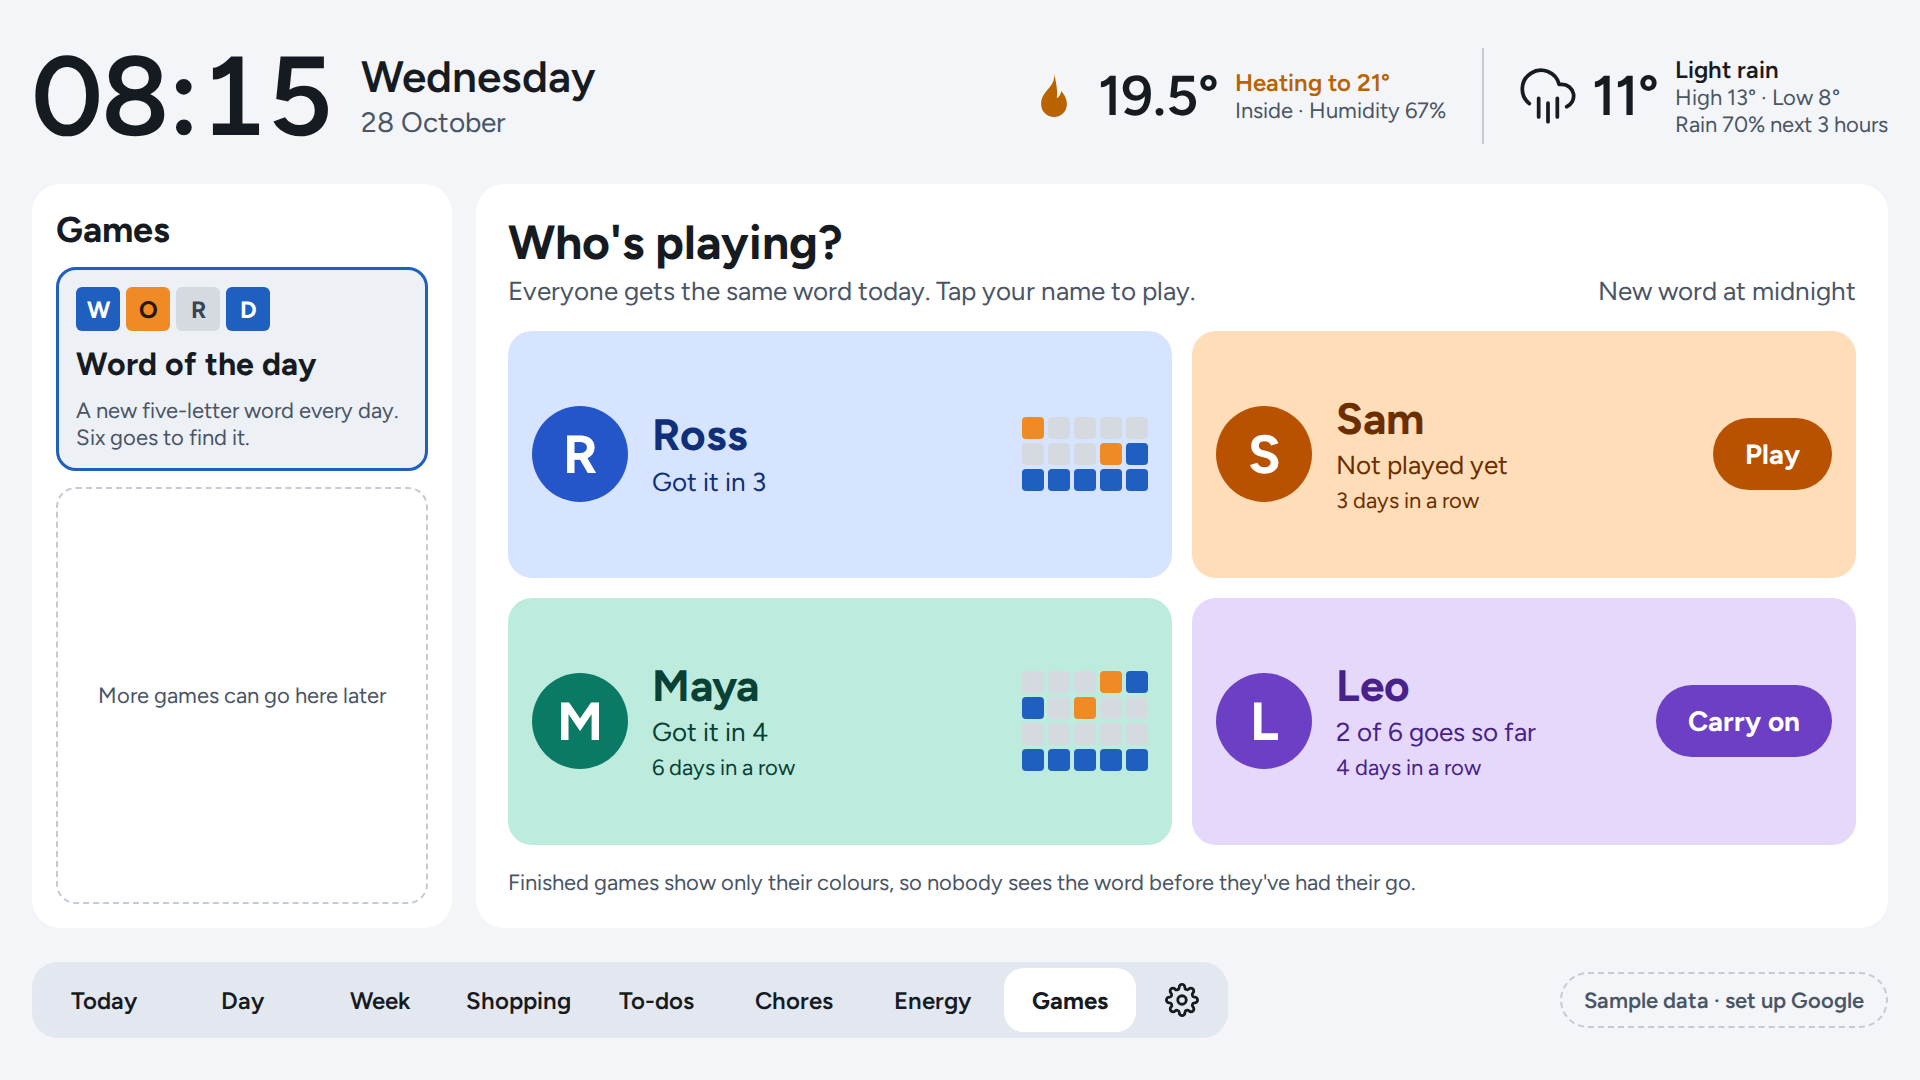
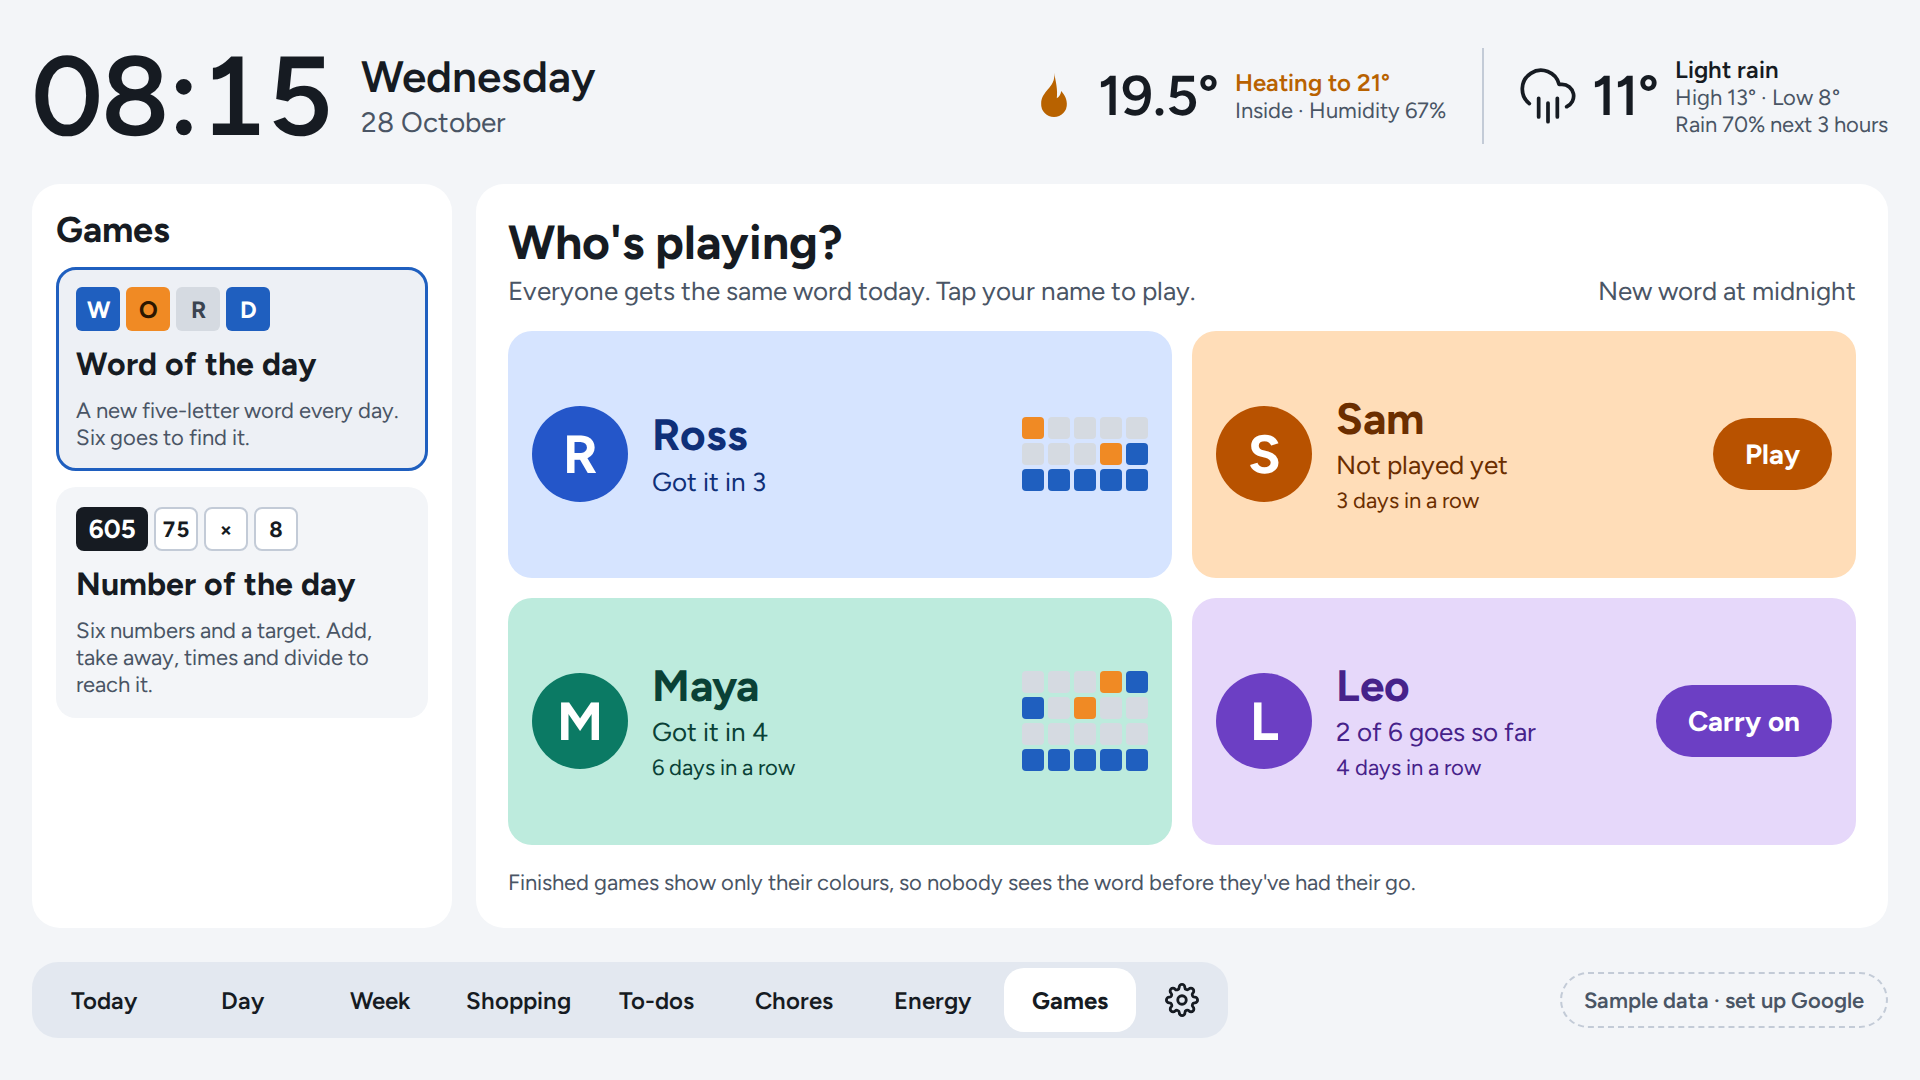
Screenshots of Number of the day, and the Games list with both games, AB#91
Made in the CI Playwright image with npm run test:screenshots. The
README's images are copies of them.

Claude-Session: https://claude.ai/code/session_01BuxoMgGrpTyDganpCKVtnJ

Changed region(s): [[0.0312, 0.5806, 0.1875, 0.6722], [0.0312, 0.4583, 0.1875, 0.55]]

diff --git a/README.md b/README.md
@@ -52,7 +52,7 @@ FamilyHub is a personal project, built by one family for its own kitchen. Buildi
 
 | Games | Word of the day |
 |---|---|
-| ![The Games Section: Word of the day, and a card for each Member: Ross and Maya have solved it, shown only as coloured squares, Sam hasn't played and Leo is two goes in](docs/images/games-view.png) | ![Leo's word of the day: two goes marked in blue, orange and grey, a third being typed, and a big keyboard with the letters tried coloured](docs/images/word-of-the-day.png) |
+| ![The Games Section, listing Word of the day and Number of the day, with Word of the day chosen and a card for each Member: Ross and Maya have solved it, shown only as coloured squares, Sam hasn't played and Leo is two goes in](docs/images/games-view.png) | ![Leo's word of the day: two goes marked in blue, orange and grey, a third being typed, and a big keyboard with the letters tried coloured](docs/images/word-of-the-day.png) |
 | Everyone gets the same word each day. A tap on your name starts your game or carries it on. Finished games show only their colours, so nobody sees the word before they've played. | Blue is the right letter in the right place, orange is in the word somewhere else, and grey isn't in it. A word the Hub doesn't know uses no go. |
 
 | Number of the day | Playing it |
